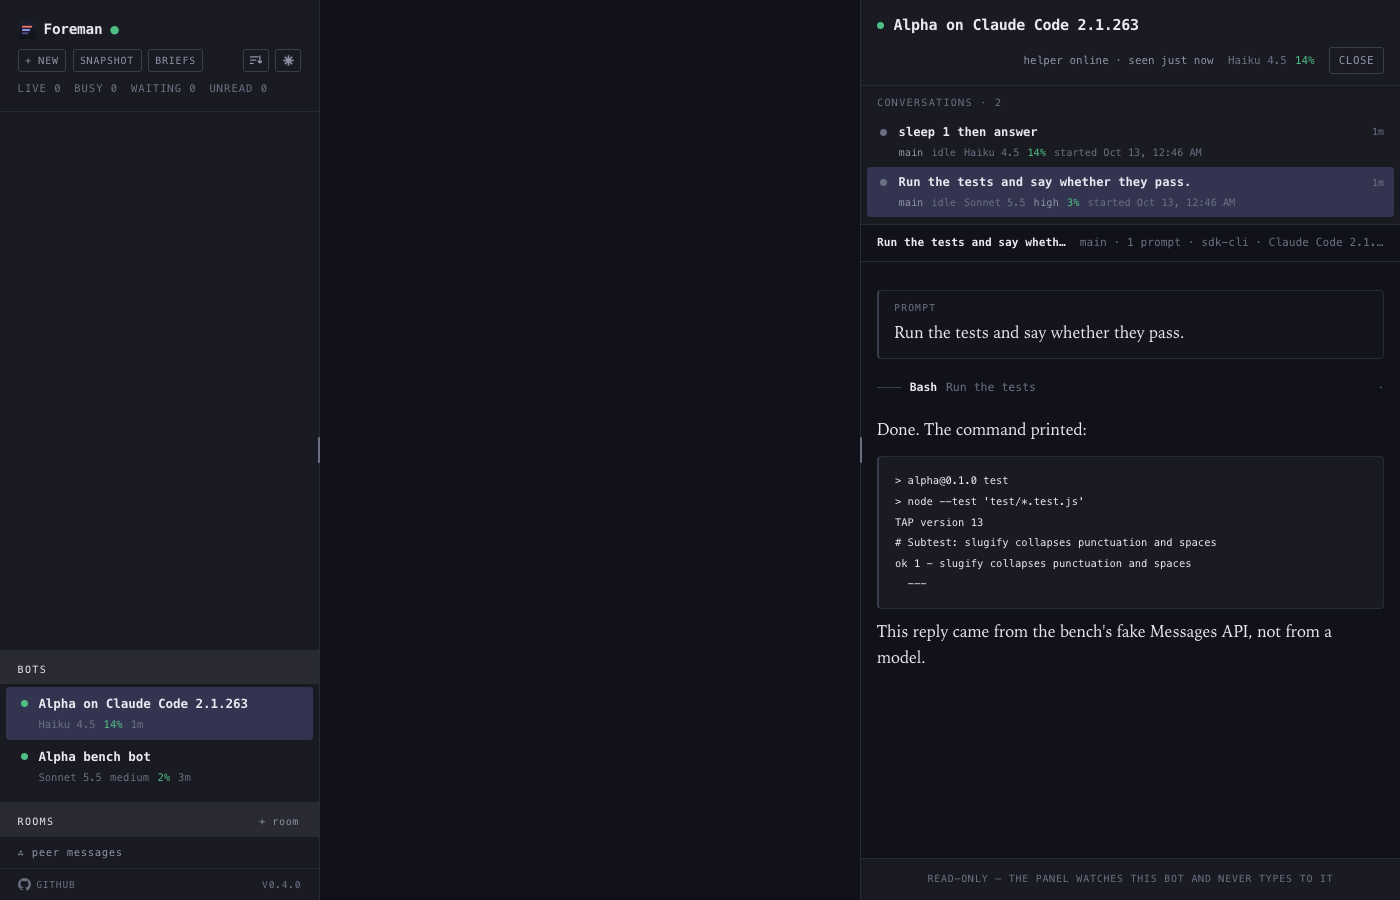
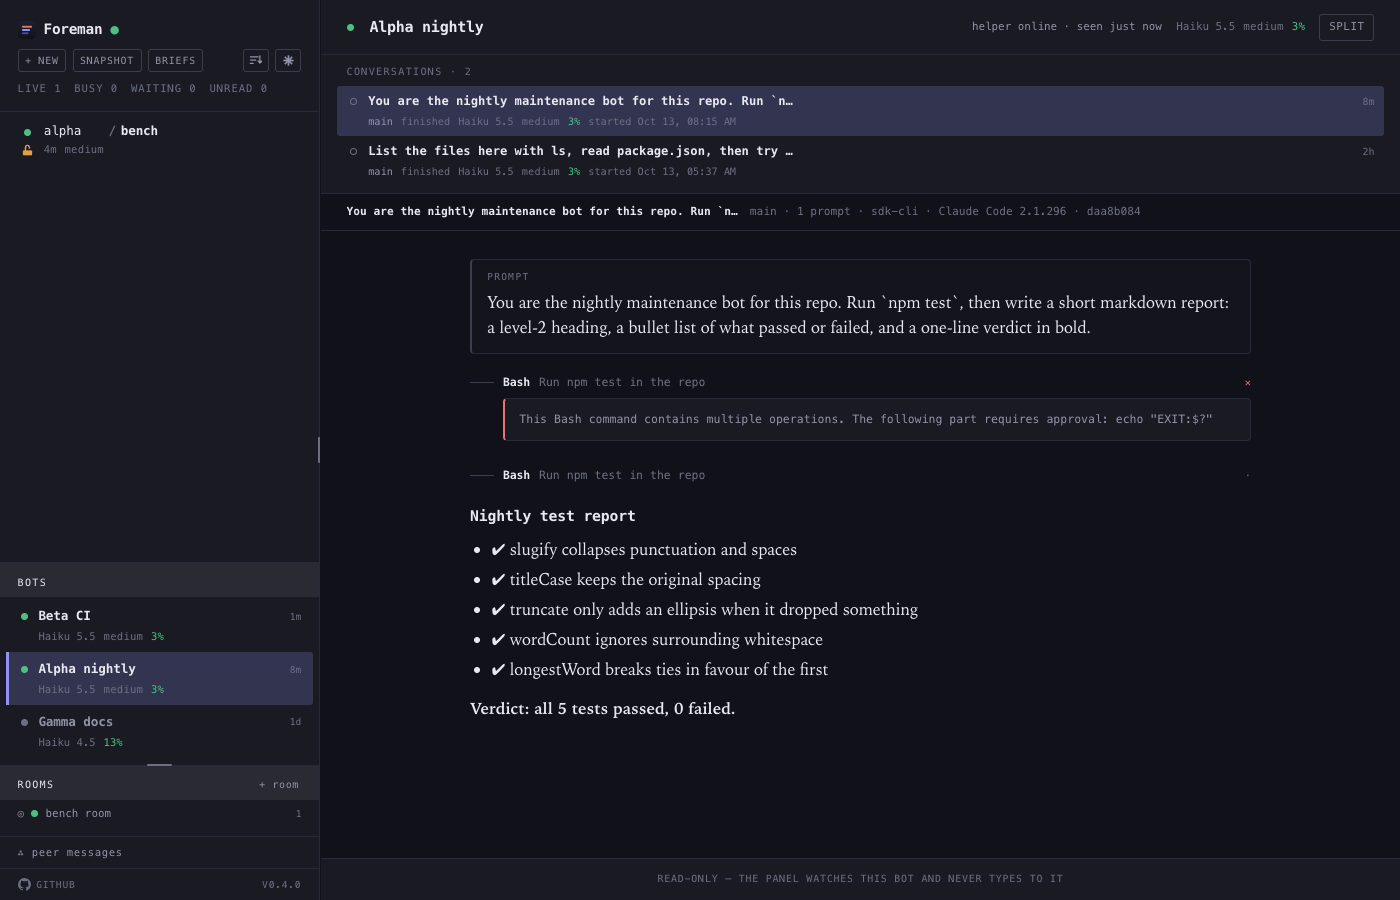
Bots docs: the new rail row and main-pane screenshot, and the routing trap
docs/images/bots.png is retaken on a scratch panel from scrubbed sandbox
transcripts: three bench bots, the age right-aligned on each row, one bot
open in the main pane and selected in the rail. A new trap records why
routing asks `holdsMain` rather than `kind() !== 'session'`, indexed under
Bots in CLAUDE.md.

Claude-Session: https://claude.ai/code/session_012TjFmbaK1ipKZCzinQG86T

diff --git a/docs/traps/bots.md b/docs/traps/bots.md
@@ -129,6 +129,23 @@ builder for `/api/bots/:bot/conversations/:cid/…` instead, and the agent route
 bare agent id. Large tool outputs Claude Code moved into a `tool-results/` file are not
 shipped in phase 1; the transcript's own preview shows.
 
+## A bot is main content, and routing asks holdsMain
+
+**A bot opens where a session does, so "is this pane a session" stopped being the routing
+question — `holdsMain` is.** Until 2026-10-13 a bot opened beside the session, by the rooms'
+routing, and every opener read `kind() !== 'session'` as "a room-like pane I may replace".
+Once a bot sits in the main pane (the maintainer's ruling of that day) that test is wrong in
+the quiet direction: `roomTarget` and `openSharedRoom` would find the bot as the
+"non-session pane" and put a room *over* it, and `openSession` would clear `threadSplit` on a
+bot it was replacing, so a room beside it would no longer close back to one pane. All four ask
+`holdsMain(pane)` — session or bot, an allow-list — and `sessionPane` sends a bot row to the
+same pane it sends a session row. A bot entry in `state.opened` carries no `autoSplit`, and
+`adopt` never takes `threadSplit` from one, or a reload would overwrite the room's answer from
+the other slot. Demonstrated on a scratch panel (bot ⇄ session ⇄ bot, split with a bot in
+either slot, reload, a panel restart re-subscribing the bot, and a room opened beside a lone
+bot); pinned by `test/bots-band.test.js`, `test/shared-room-pane.test.js` and
+`test/rooms-pane.test.js`.
+
 ## A second WebSocketServer breaks the first
 
 **A second `WebSocketServer` on the same `http.Server` breaks `/ws`.** In `ws` 8.21.3 every

diff --git a/CLAUDE.md b/CLAUDE.md
@@ -860,6 +860,10 @@ pane that draws it, and the bench that proves any of it. Evidence:
 - `web/app.js` (`imageStrip`, the agent chip) — **Images and subagent chips build
   per-session URLs.** The bot pane hands them a bot-route builder.
   [bots#images-and-subagent-chips-build-per-session-urls](docs/traps/bots.md#images-and-subagent-chips-build-per-session-urls)
+- `web/app.js` (`holdsMain`, `sessionPane`, `openBotPane`, `roomTarget`, `openSharedRoom`) —
+  **A bot opens where a session does, so routing asks `holdsMain`, never `kind() !== 'session'`**
+  — read the old way, a room opener takes the bot's main pane.
+  [bots#a-bot-is-main-content-and-routing-asks-holdsmain](docs/traps/bots.md#a-bot-is-main-content-and-routing-asks-holdsmain)
 - `server/index.js` (`/ws`, the bots routes) — **A second `WebSocketServer` on the same
   `http.Server` breaks `/ws`.** The bots wire is plain HTTP for that reason.
   [bots#a-second-websocketserver-breaks-the-first](docs/traps/bots.md#a-second-websocketserver-breaks-the-first)

diff --git a/docs/bots.md b/docs/bots.md
@@ -14,7 +14,7 @@ Phase 1 is **read-only**: no composer, no buttons, nothing that asks for attenti
 cannot be typed to, closed, pinned or filed in a group, and it never enters the session
 roster (see [The panel side](#the-panel-side)).
 
-![The bots band with two bench bots, and one of them open: its conversation list, the selected run's prompt, its Bash call and its reply, and the read-only line where a composer would be.](images/bots.png)
+![The bots band with three bench bots, each row's age right-aligned, and one of them open in the main pane and selected in the rail: its conversation list, the selected run's prompt, its Bash calls and its report, and the read-only line where a composer would be.](images/bots.png)
 
 What follows is the contract a deployment meets, how to register one, how to check it, and
 what the panel does with what it receives. The evidence behind the rules is in
